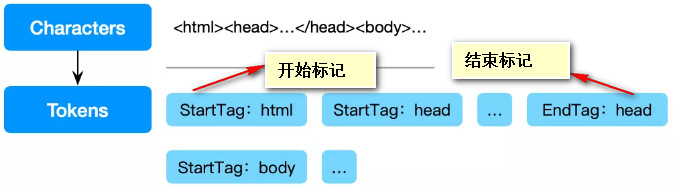
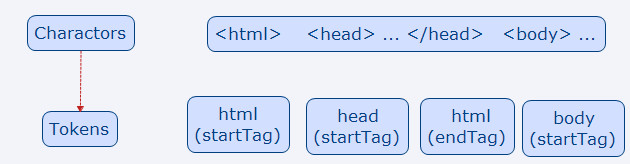
提交：1.修改流程图

diff --git a/JavaScript/1.原型与原型链/JavaScript之原型、原型链.md b/JavaScript/1.原型与原型链/JavaScript之原型、原型链.md
@@ -68,7 +68,7 @@ console.log(Person.prototype.constructor === Person)
 ```
 我们总结下构造函数、原型、实例对象之间的关系。
 构造函数通过prototype属性指向原型对象，通过new构造函数得到实例，实例通过__proto__指向原型对象，原型对象通过constructor属性又指向构造函数。
-![函数原型](./image/2prototype.png)
+![函数原型](./image/2prototype.jpg)
 
 ## 原型链
 上文中我们已经讨论过，每个实例对象都有__proto__属性指向它的原型对象，原型对象也有__proto__属性指向原型对象的原型对象，层层向上直到对象的原型对象为null，我们把这种层层向上查找的结构叫作**原型链**。
@@ -105,7 +105,7 @@ console.log(Object.protype.__proto__)
 上例中输出结果是null，在原型链中Object.prototype就是所有原型链的末端。
 
 图示表示Person完整的原型链：
-![函数原型](./image/3prototype.png)
+![函数原型](./image/3prototype.jpg)
 
 总结：以上学习了何为原型、原型链，原型、函数、实例对象之间的关系，以及原型链的形成，文中如有不妥之处希望大家指出。
 

diff --git a/Browser/1.浏览器渲染原理/1.浏览器渲染原理.md b/Browser/1.浏览器渲染原理/1.浏览器渲染原理.md
@@ -17,10 +17,10 @@
 
 ### 构建DOM树
   1. 我们写的HTML文件中都是字符串，计算机硬件本身并不认识字符串，所以从本地或网络加载的html文件都会以0和1这样的字节数据传输，但是浏览器会将字节数据转为字符串。
-  ![字节转字符](./images/2Byte.jpg)
+  ![字节转字符](./images/2byte.jpg)
 
   2. 浏览器通过词法分析将字符串转换成Token标记，token本身也是字符串，是构成代码的最小单位。标识标签含义比如：'开始标签'、'结束标签'、'标签内容'等。
-  ![字符串转Token](./images/3Token.jpg)
+  ![字符串转Token](./images/3token.jpg)
 
   3. 生成节点对象，Token转换为Nodes时，只要有多余的Token就会立刻被转为节点对象，而不是等所有Token都转换完成后再生成节点对象。
   ![Token转Node](./images/4DOM.jpg)

diff --git a/JavaScript/3.执行上下文与执行上下文栈/JavaScript之执行上下文与执行上下文栈.md b/JavaScript/3.执行上下文与执行上下文栈/JavaScript之执行上下文与执行上下文栈.md
@@ -27,7 +27,7 @@ ECStack = []
 ```js
 ECStack = []
 ```
-#### 代码分析(伪代码)
+#### 代码分析
 我们依旧拿上篇'作用域'中提到的权威指南中的例子分析代码执行时'执行上下文栈'是如何变化的.
 ##### 第一段代码
 ```js
